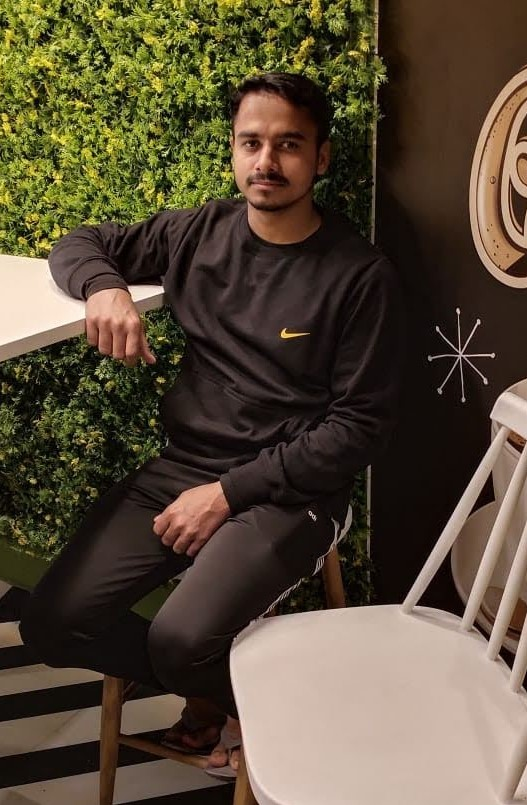
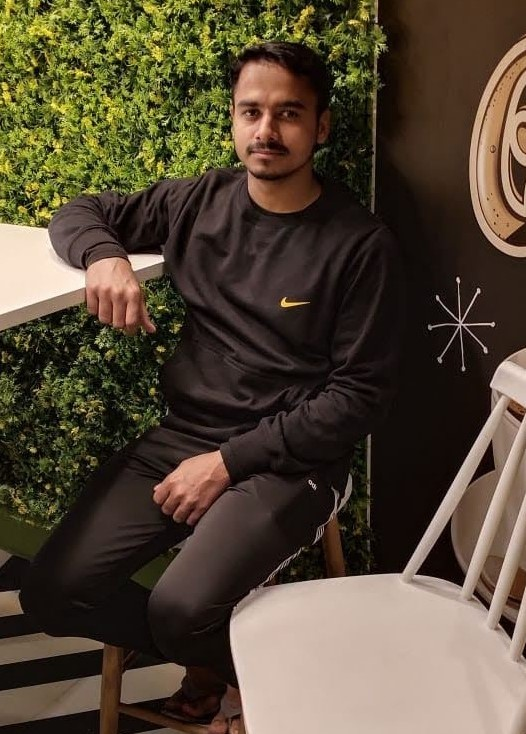
updates

diff --git a/index.html b/index.html
@@ -390,7 +390,7 @@
 					<!-- single member -->
 					<figure class="team-member col-md-3 col-sm-6 col-xs-12 text-center wow fadeInUp animated" data-wow-duration="500ms" data-wow-delay="600ms">
 						<div class="member-thumb">
-							<img src="img/team/kranti2.jpg" alt="Team Member" class="img-responsive">
+							<img src="img/team/kranti1.jpg" alt="Team Member" class="img-responsive">
 							<figcaption class="overlay">
 								<!-- <h5>voluptatem quia voluptas </h5>
 								<p>sit aspernatur aut odit aut fugit,</p> -->
